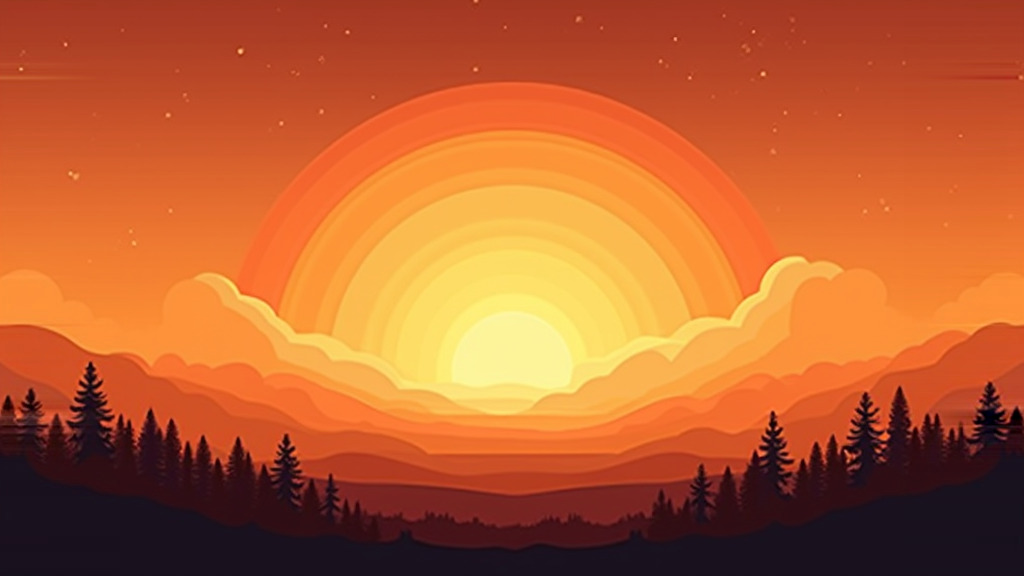
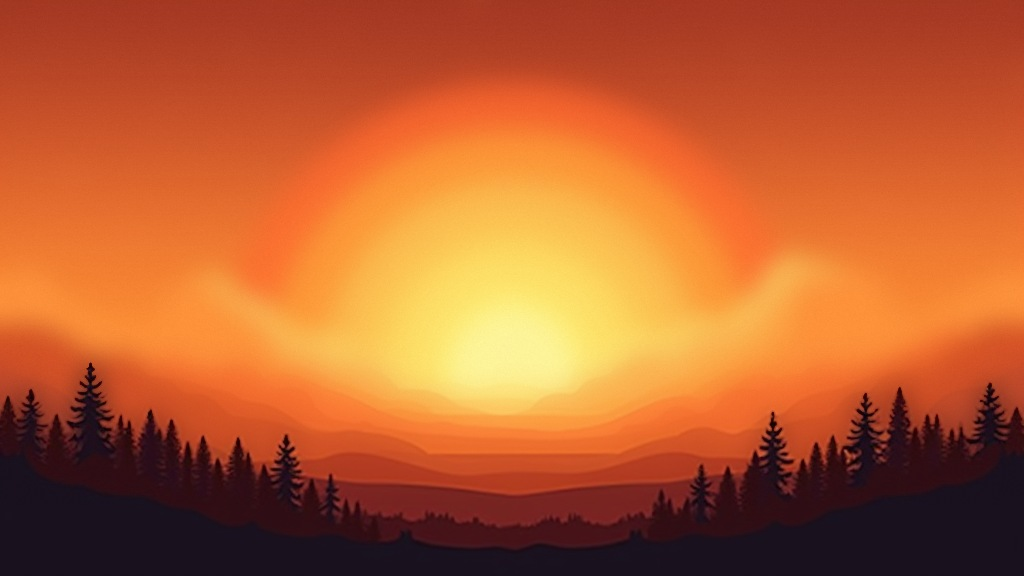
fix(blaze): melt hard sky bands into smooth gradients (removes the 'lines')
The regenerated Blaze Rush skies were flat vector art built from hard-edged
color bands - horizontal stripes on L1, concentric rings around the L3 sun -
which read as lines across the background (founder: 'the sky is now full of
lines'). Melt the bands into smooth gradients with a vertical-gradient masked
Gaussian that protects the dark tree/mountain silhouettes (only the bright sky
smooths), plus light grain so JPEG re-encode can't re-band. Banding steps
dropped L1 106->4, L3 59->22, L2 27->0 rows. Backdrops remain 0% out-of-palette
green.

Claude-Session: https://claude.ai/code/session_01SLXJxqvK3c4MrXDNtB4jWH

diff --git a/STATUS.md b/STATUS.md
@@ -5,6 +5,25 @@
 
 ---
 
+**🔥 BLAZE RUSH SKY "LINES" — SMOOTHED OUT (2026-09-19, thirteenth pass).**
+
+You said the regenerated skies were "full of lines" and that the green
+blemishes carry into the stage on exit. Root cause of the lines: the flat
+vector-art skies were built from hard-edged color bands — **horizontal stripes
+on L1, concentric rings around the L3 sun** — that read as lines across the
+background. Fix: I melted those bands into smooth gradients (vertical-gradient
+masked blur that keeps the tree/mountain silhouettes crisp — only the sky
+smooths), plus fine grain so JPEG can't re-band them. Measured banding
+(sharp vertical steps): **L1 106→4 rows, L3 59→22, L2 27→0**.
+
+On the green blemishes: the current Blaze backdrops contain **0% out-of-palette
+green** (scanned all three), and the lime-green particle field was already
+deleted. The green you circled was in the *older* pre-regeneration build. Next
+step is a fresh live-itch hard-refresh capture to confirm the current build
+shows no lines, no green, and no dividing line before I call any of it fixed.
+
+---
+
 **🔥 BLAZE RUSH SMUDGES — BACKDROPS REGENERATED CLEAN (2026-09-19, twelfth pass).**
 
 You confirmed the four stage/vault fixes are "much better" but the Blaze Rush
